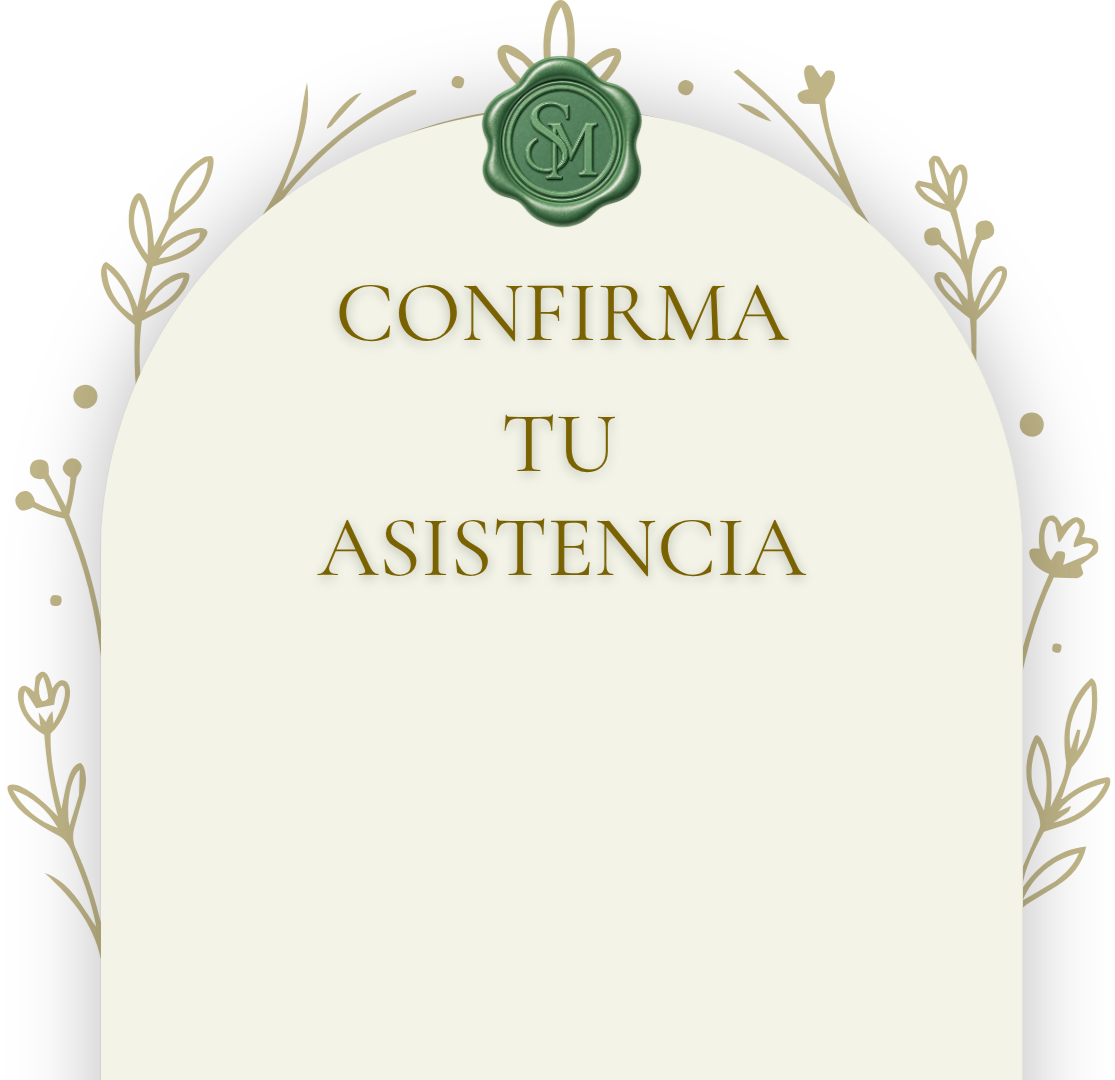
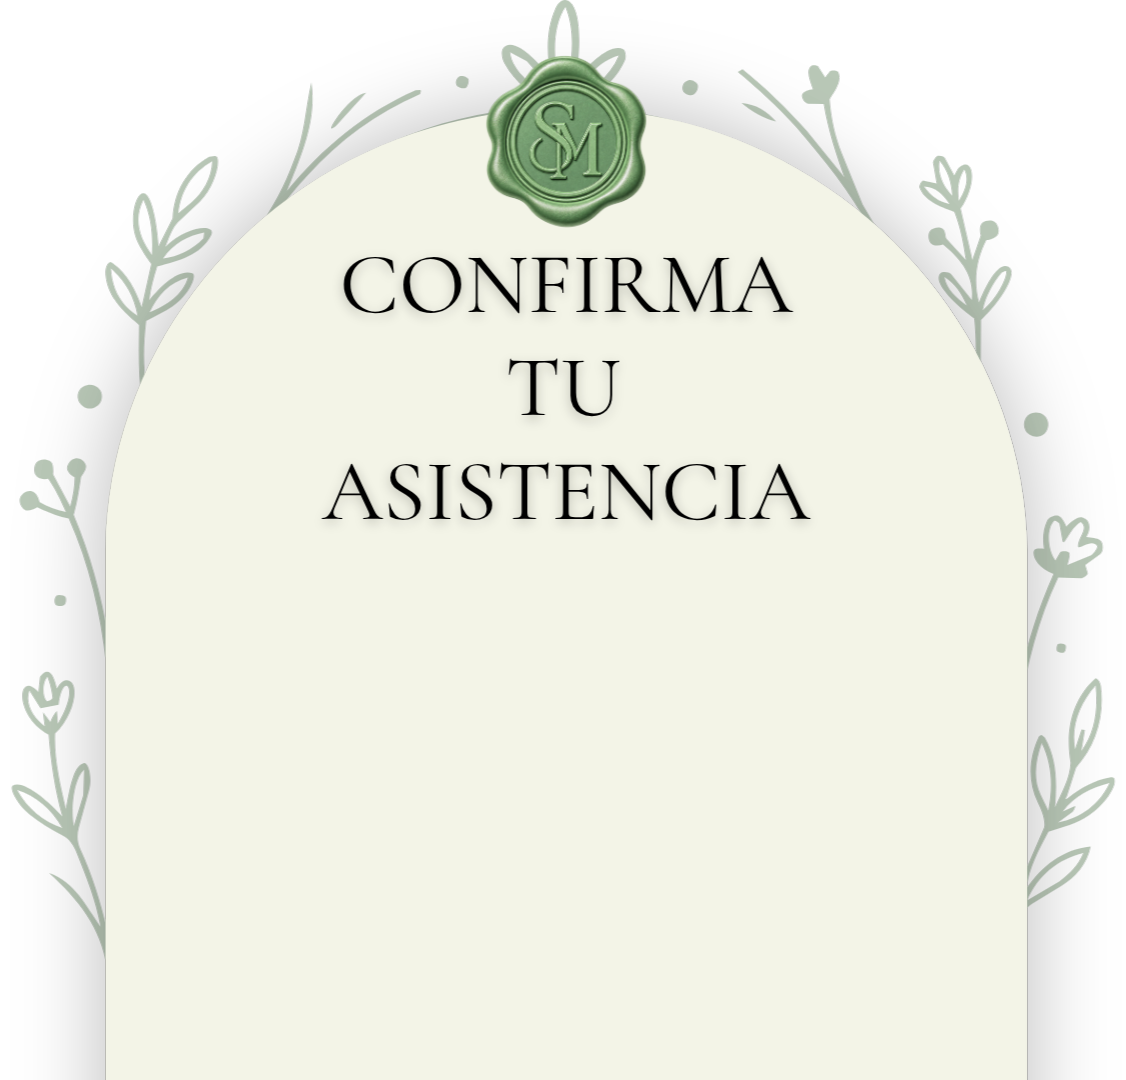
feat: manual index con muchos cambios + nuevos assets
- index.html: 62+ cambios manuales (5/9 16:59)

- assets: hero-couple.jpg 374k->9.1M, intro-couple.png 2.66M->2.54M, Confirma-footer.png 253k->276k

diff --git a/index.html b/index.html
@@ -59,8 +59,8 @@
       -moz-osx-font-smoothing: grayscale;
     }
     /* Jerarquía armonizada Cormorant — legible para mayores, no negro puro */
-    .section-title { font-family: var(--font-display); font-size: clamp(1.9rem, 5.2vw, 2.9rem); font-weight: 600; color: #1F1F1F; letter-spacing: 0.06em; line-height: 1.15; }
-    .section-subtitle, .intro__label, .details__event-title { font-family: var(--font-display); font-size: clamp(1.15rem, 3.8vw, 1.6rem); font-weight: 600; color: #1F1F1F; letter-spacing: 0.06em; }
+    .section-title { font-family: var(--font-display); font-size: clamp(1.9rem, 5.2vw, 2.9rem); font-weight: 600; color: var(--ink); letter-spacing: 0.06em; line-height: 1.15; }
+    .section-subtitle, .intro__label, .details__event-title { font-family: var(--font-display); font-size: clamp(1.15rem, 3.8vw, 1.6rem); font-weight: 600; color: var(--ink); letter-spacing: 0.06em; }
     p, .intro__tagline, .intro__tagline--overlay, .details__event-place, .details__event-time, .rules__item, .gifts__text, .ubicacion__detail, .ubicacion__detail strong, .dressCode__desc, .agenda__item-label, .countdown__label { font-family: var(--font-display); }
     p, .details__event-place, .rules__item, .gifts__text, .ubicacion__detail, .dressCode__desc { font-size: 1.02rem; font-weight: 400; line-height: 1.6; color: var(--ink); }
     .rules__item, .ubicacion__detail { font-size: 1.02rem; }
@@ -107,7 +107,7 @@
       font-family: var(--font-display);
       font-size: clamp(2rem, 6vw, 3.5rem);
       font-weight: 500;
-      color: #0A0A0A;
+      color: var(--ink);
       letter-spacing: 0.08em;
       text-transform: uppercase;
       line-height: 1.15;
@@ -119,7 +119,7 @@
       font-weight: 600;
       letter-spacing: 0.22em;
       text-transform: uppercase;
-      color: #0A0A0A;
+      color: var(--ink);
       text-align: center;
       margin: 0 auto 8px;
       display: block;
@@ -129,7 +129,7 @@
       font-family: var(--font-display);
       font-size: clamp(1rem, 3vw, 1.3rem);
       font-weight: 400;
-      color: #0A0A0A;
+      color: var(--ink);
       text-align: center;
       letter-spacing: 0.06em;
       font-style: italic;
@@ -261,7 +261,7 @@
       font-weight: 400;
       letter-spacing: 0.16em;
       text-transform: uppercase;
-      color: #0F0F0F;
+      color: var(--ink);
       text-align: center;
       line-height: 1.5;
       max-width: 90vw;
@@ -271,7 +271,7 @@
       font-family: var(--font-display);
       font-size: clamp(1.9rem, 7.5vw, 3.8rem);
       font-weight: 500;
-      color: #0A0A0A;
+      color: var(--ink);
       letter-spacing: 0.14em;
       text-transform: uppercase;
       text-align: center;
@@ -284,7 +284,7 @@
       font-size: clamp(1rem, 4vw, 1.5rem);
       font-weight: 500;
       font-style: italic;
-      color: #0A0A0A;
+      color: var(--ink);
       letter-spacing: 0.08em;
       text-align: center;
       margin-top: 2px;
@@ -305,14 +305,14 @@
       font-size: clamp(0.95rem, 3vw, 1.25rem);
       font-style: normal;
       font-weight: 400;
-      color: #0A0A0A;
+      color: var(--ink);
       letter-spacing: 0.04em;
     }
     .intro__label {
       font-family: var(--font-display);
       font-size: clamp(1.4rem, 5vw, 2.2rem);
       font-weight: 500;
-      color: #0A0A0A;
+      color: var(--ink);
       letter-spacing: 0.12em;
       text-transform: uppercase;
       margin-top: 14px;
@@ -331,7 +331,7 @@
       font-size: clamp(0.85rem, 2.8vw, 1.05rem);
       font-style: italic;
       font-weight: 400;
-      color: #0A0A0A;
+      color: var(--ink);
       letter-spacing: 0.04em;
       line-height: 1.5;
       text-shadow: 0 1px 0 rgba(255,255,255,0.92), 0 2px 10px rgba(255,255,255,0.7);
@@ -932,7 +932,7 @@
       font-size: clamp(1rem, 3vw, 1.25rem);
       font-style: italic;
       font-weight: 300;
-      color: #0A0A0A;
+      color: var(--ink);
       text-align: center;
       margin-top: 16px;
       line-height: 1.6;
@@ -1173,11 +1173,38 @@
     @media (max-width: 640px) {
       .section { padding: 32px 18px; }
       .section__inner { max-width: 100%; }
-      .section-title { font-size: clamp(1.5rem, 6.5vw, 2rem); }
+      .section-title { font-size: clamp(1.8rem, 7vw, 2.3rem); }
       #intro { padding-bottom: 28px; }
       #ubicacion { padding-top: 24px; padding-bottom: 20px; }
       #detalles { padding-top: 20px; padding-bottom: 24px; }
       .hero--footer { min-height: 52vh !important; }
+
+      /* ── Tipografía ampliada para personas mayores — móvil ── */
+      body { font-size: 1.13rem; }
+      .section-subtitle { font-size: clamp(1.15rem, 4.5vw, 1.45rem); }
+      p, .details__event-place, .rules__item, .gifts__text,
+      .ubicacion__detail, .dressCode__desc { font-size: 1.12rem; line-height: 1.75; }
+      .rules__item { font-size: 1.1rem; }
+      .ubicacion__detail { font-size: 1.08rem; }
+      .agenda__item-time { font-size: clamp(1.15rem, 4.5vw, 1.5rem); }
+      .agenda__item-label { font-size: 0.92rem; letter-spacing: 0.12em; }
+      .rsvp__seats { font-size: 0.88rem; }
+      .rsvp__btn { font-size: 0.95rem; padding: 14px 28px; }
+      .ubicacion__btn { font-size: 0.78rem; padding: 11px 16px; }
+      .details__event-title { font-size: clamp(1.3rem, 4.5vw, 1.8rem); }
+      .details__event-time { font-size: clamp(2rem, 6vw, 2.8rem); }
+      .details__event-place { font-size: 1rem; letter-spacing: 0.14em; }
+      .intro__tagline { font-size: clamp(1.1rem, 3.8vw, 1.4rem); }
+      .intro__label { font-size: clamp(1.5rem, 5.5vw, 2.2rem); }
+      .countdown__label { font-size: 0.95rem; }
+      .countdown__heading { font-size: 0.82rem; }
+      .gifts__text { font-size: clamp(1.2rem, 5vw, 1.6rem); }
+      .rsvp__guest-name { font-size: clamp(1.15rem, 4.5vw, 1.5rem) !important; }
+      .player-song { font-size: 1.05rem !important; }
+      .player-artist { font-size: 0.88rem !important; }
+      .calendar-modal__title { font-size: 1.3rem; }
+      .calendar-option strong { font-size: 1rem; }
+      .calendar-option small { font-size: 0.78rem; }
     }
 
     /* ============================================================
@@ -1389,7 +1416,7 @@
 
       <!-- Player — Vinilo pequeño que sale mitad -->
       <div class="player-section reveal" style="padding:0; background:transparent; margin-top:24px;">
-        <p class="player-label" style="font-family:'Cormorant Garamond', Georgia, serif; font-style:italic; font-size:1.05rem; color:var(--ink); margin:0 0 14px; opacity:0.85; text-align:center;">Dale play a nuestra canción...</p>
+
         <div class="player-card" style="width:100%; max-width:300px; margin:0 auto; background:#fff; border-radius:20px; box-shadow:0 4px 24px rgba(0,0,0,0.10), 0 1px 4px rgba(0,0,0,0.06); display:flex; flex-direction:column; overflow:visible; position:relative; padding-top:72px; z-index:1;">
           <!-- Vinilo — detrás del reproductor, sale mitad -->
           <div id="vinylWrap" style="position:absolute; top:0; left:50%; transform:translateX(-50%) translateY(48%); width:150px; height:150px; transition:transform 0.7s cubic-bezier(0.34,1.56,0.64,1); z-index:0; pointer-events:none;">
@@ -1516,7 +1543,7 @@
     <img src="assets/Rama-eucalipto-2.png" alt="" class="deco deco--detalles" aria-hidden="true" />
     <div class="section__inner reveal-group">
       <h2 class="section-title typewriter-block reveal">Detalles<br>de la Boda</h2>
-<p class="reveal" style="font-family: var(--font-display); font-size: clamp(2.4rem, 9vw, 3.4rem); font-weight: 700; color: #0A0A0A; text-align: center; letter-spacing: 0.10em; text-transform: uppercase; margin-top: 40px; margin-bottom: 12px; line-height:1.1;">Agenda de la Boda</p>
+<p class="reveal" style="font-family: var(--font-display); font-size: clamp(2.4rem, 9vw, 3.4rem); font-weight: 700; color: var(--ink); text-align: center; letter-spacing: 0.10em; text-transform: uppercase; margin-top: 40px; margin-bottom: 12px; line-height:1.1;">Agenda de la Boda</p>
       <img class="details__venue-illustration reveal"
            src="assets/venue-illustration.webp"
            alt="Ilustración del lugar de la celebración" />
@@ -1596,7 +1623,7 @@
     <img src="assets/Rama-arbol.png" alt="" class="deco deco--dress" aria-hidden="true" />
     <div class="section__inner reveal-group">
       <h2 class="section-title reveal" style="font-size: clamp(1.2rem, 4.5vw, 1.7rem);">Dress Code</h2>
-      <p class="dressCode__desc reveal" style="font-size:clamp(1.1rem,3.5vw,1.35rem);">El código de vestimenta es: <strong style="font-weight:700; letter-spacing:0.08em; color:var(--ink);">FORMAL</strong></p>
+      <p class="dressCode__desc reveal" style="font-size:clamp(1.1rem,3.5vw,1.35rem); color:var(--ink);">El código de vestimenta es: <strong style="font-weight:700; letter-spacing:0.08em; color:var(--ink);">FORMAL</strong></p>
     </div>
   </section>
 
@@ -1766,8 +1793,7 @@
         setTimeout(() => { msg.style.display = 'none'; }, 3000);
       }
       btnSi.addEventListener('click', () => {
-        const nombre = new URLSearchParams(window.location.search).get('invitado') || 'Invitado';
-        showMsg(`¡Gracias ${nombre}! Hemos registrado tu asistencia.`, true);
+        showMsg('Gracias por ser parte de nuestra historia', true);
         btnSi.style.opacity = '0.6';
         btnNo.style.opacity = '0.6';
         btnSi.disabled = true;
